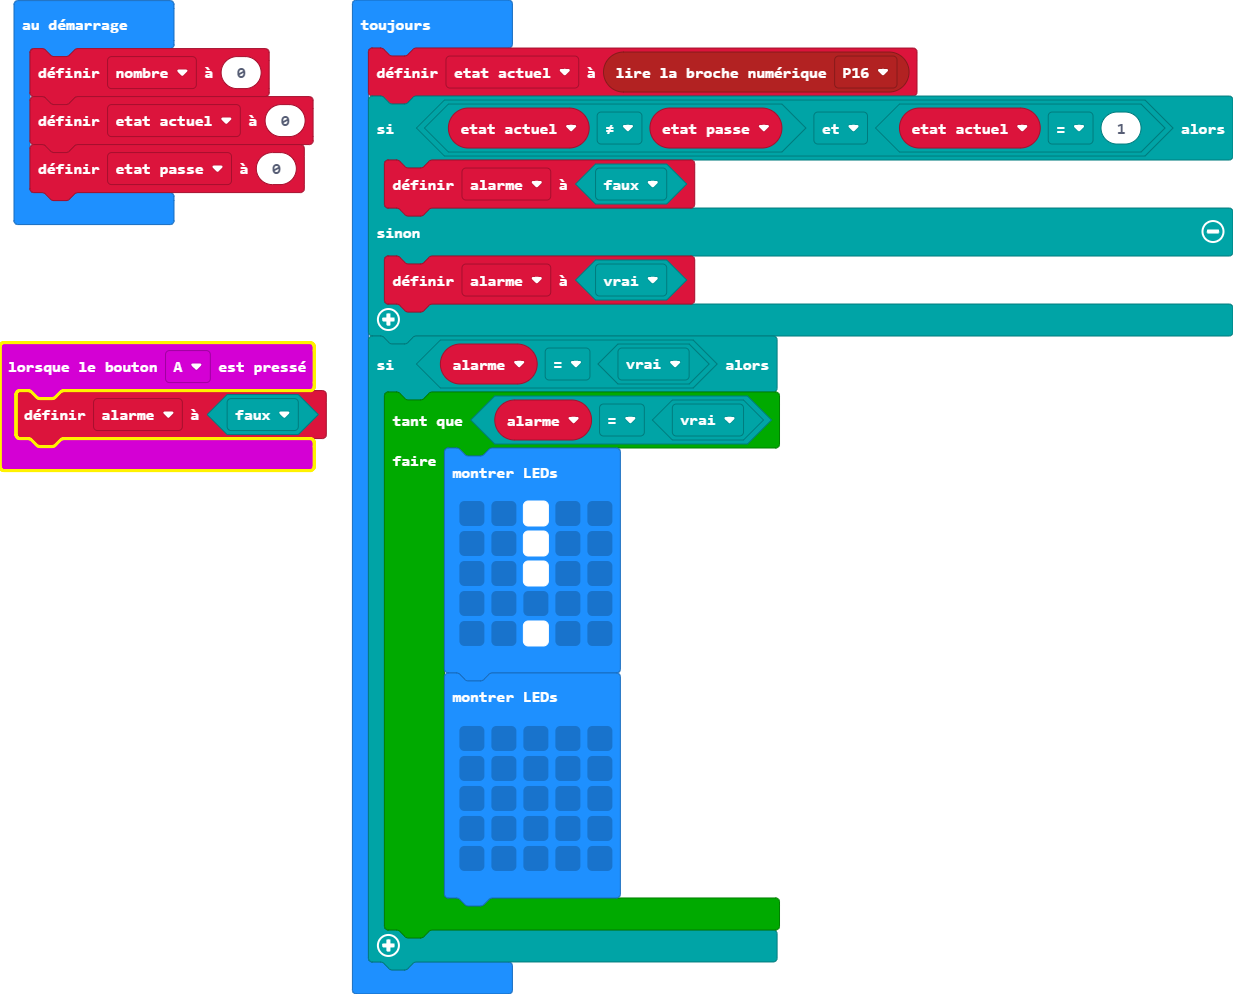
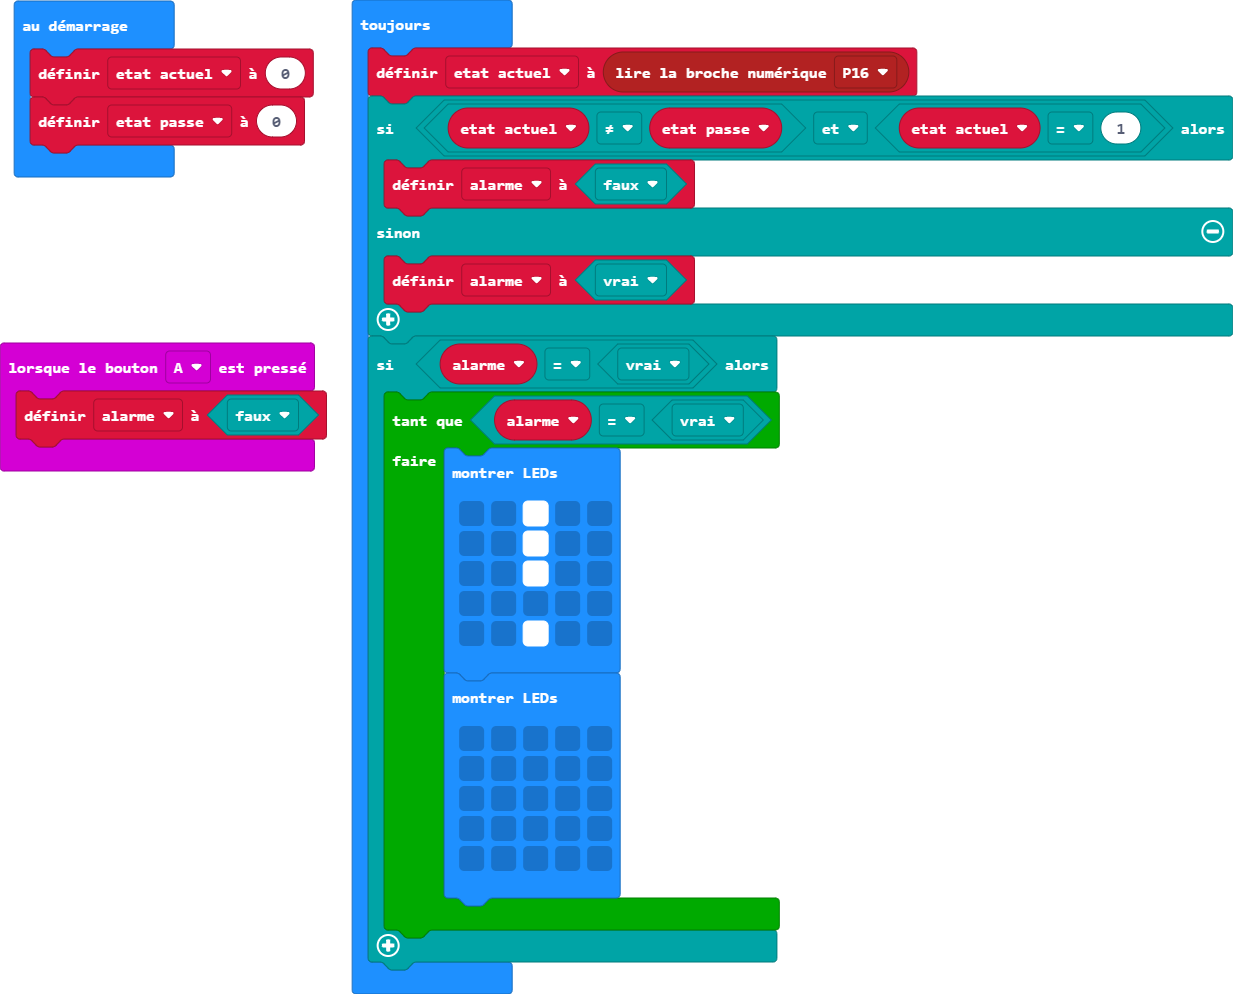
Mise à jour main.blocks, main.ts

diff --git a/main.ts b/main.ts
@@ -2,7 +2,6 @@ input.onButtonPressed(Button.A, function () {
     alarme = false
 })
 let alarme = false
-let nombre = 0
 let etat_actuel = 0
 let etat_passe = 0
 basic.forever(function () {
